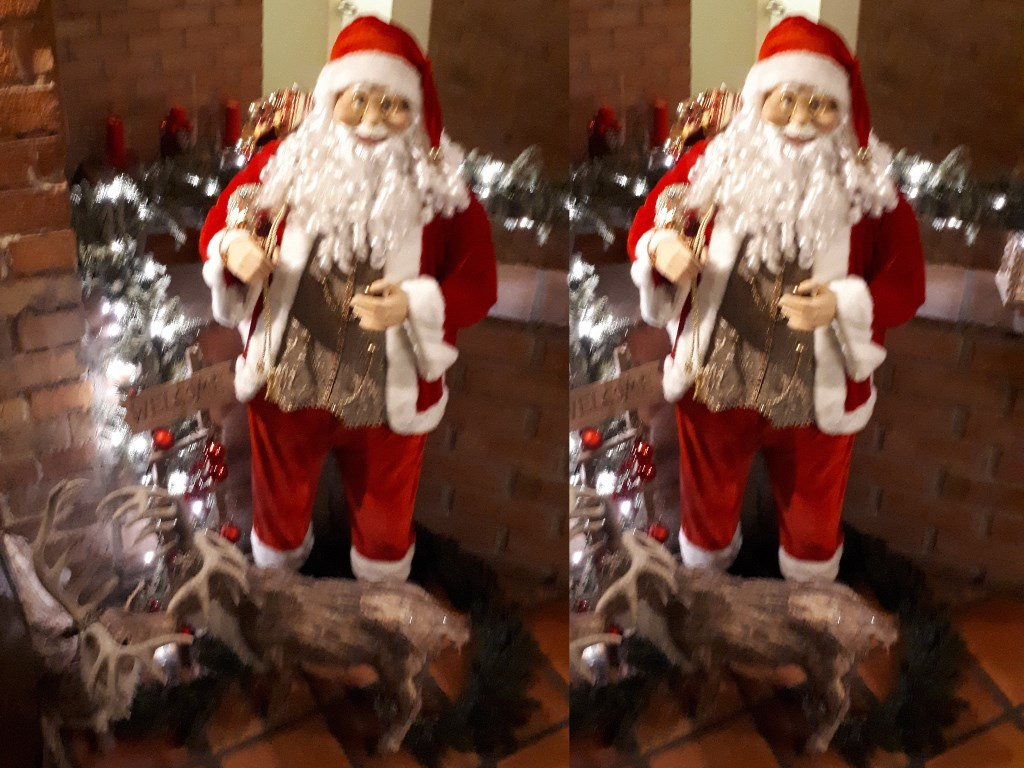
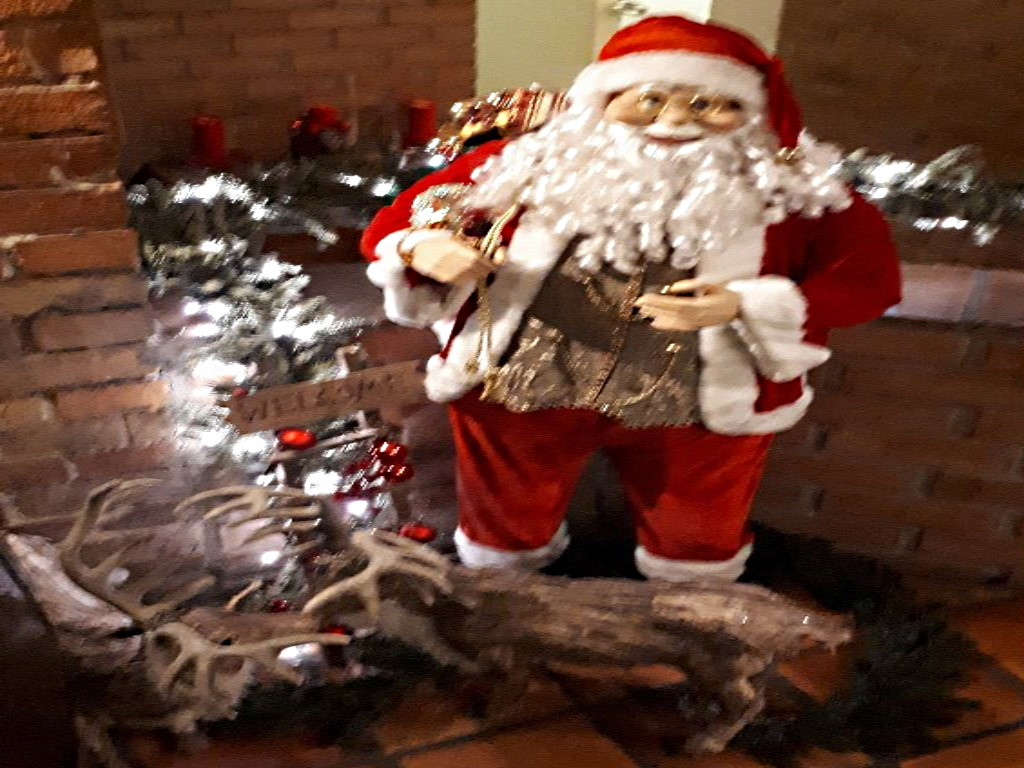
background images added for advent calendar
roalty free self made images

diff --git a/foldergallery.php b/foldergallery.php
@@ -3112,7 +3112,7 @@ function pb_adventscal($atts) {
 		$wphome = get_home_url();
 		$zuftuer = UniqueRandomNumbersWithinRange(1,24,24);	
 		$lauftag = 0;
-		$zufbild = random_int(1, 11);
+		$zufbild = random_int(1, 14);
 		$adv2 = date("d",strtotime("+2 sunday",mktime(0,0,0,11,27,date("Y"))));
 		$adv3 = date("d",strtotime("+3 sunday",mktime(0,0,0,11,27,date("Y"))));
 		$adv4 = date("d",strtotime("+4 sunday",mktime(0,0,0,11,27,date("Y"))));
